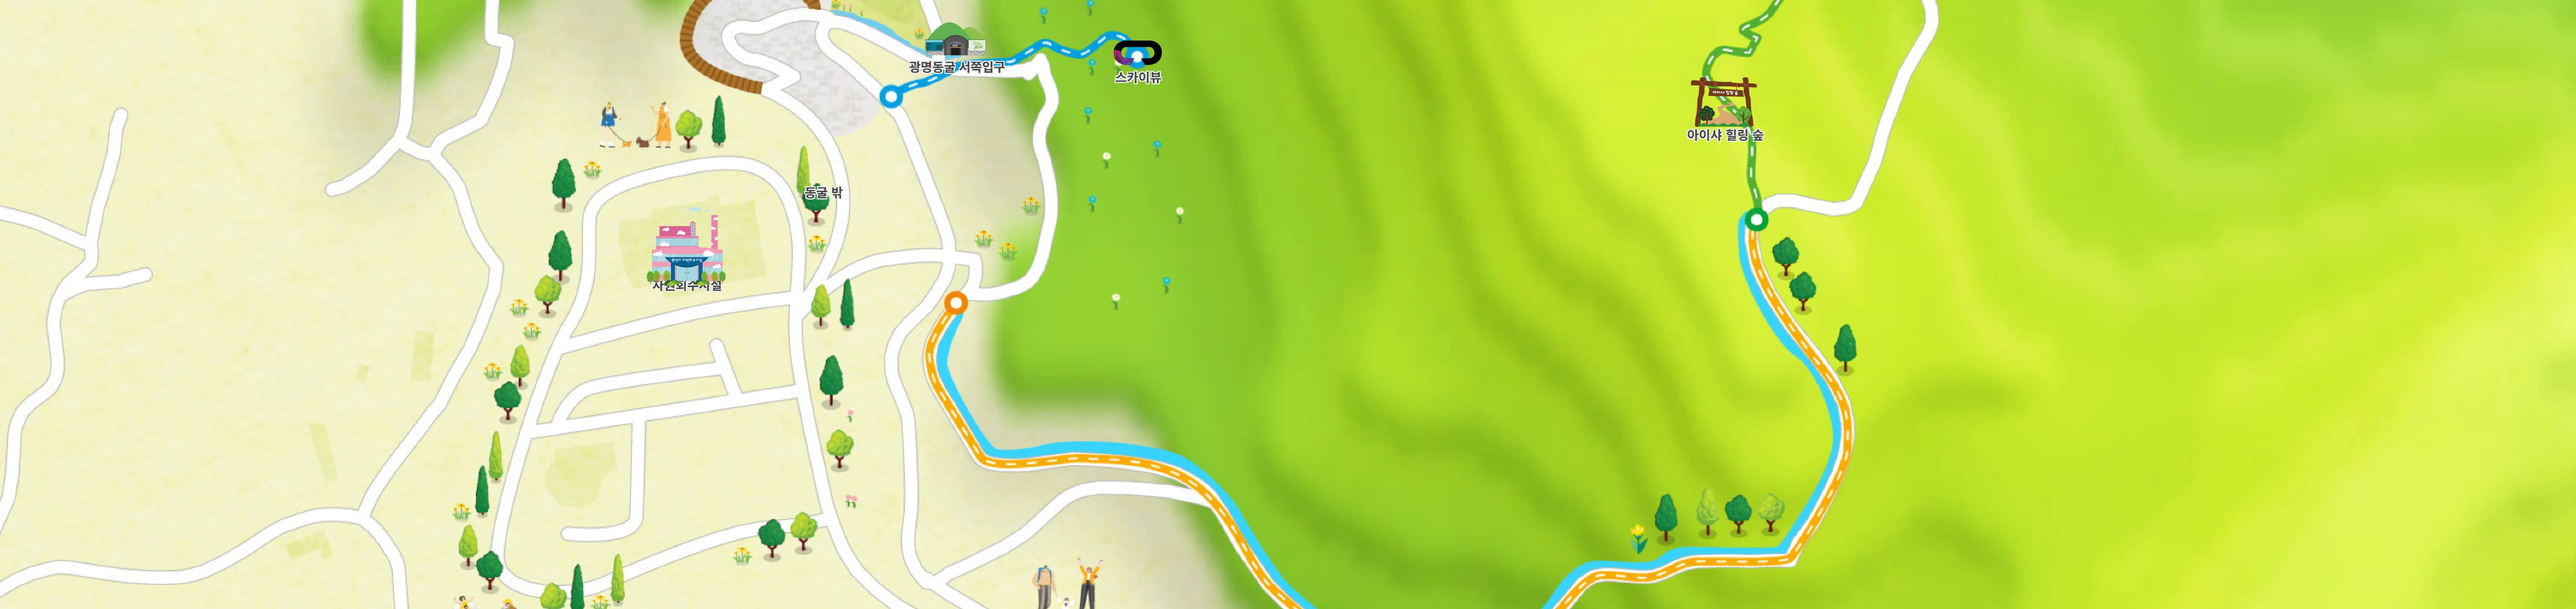
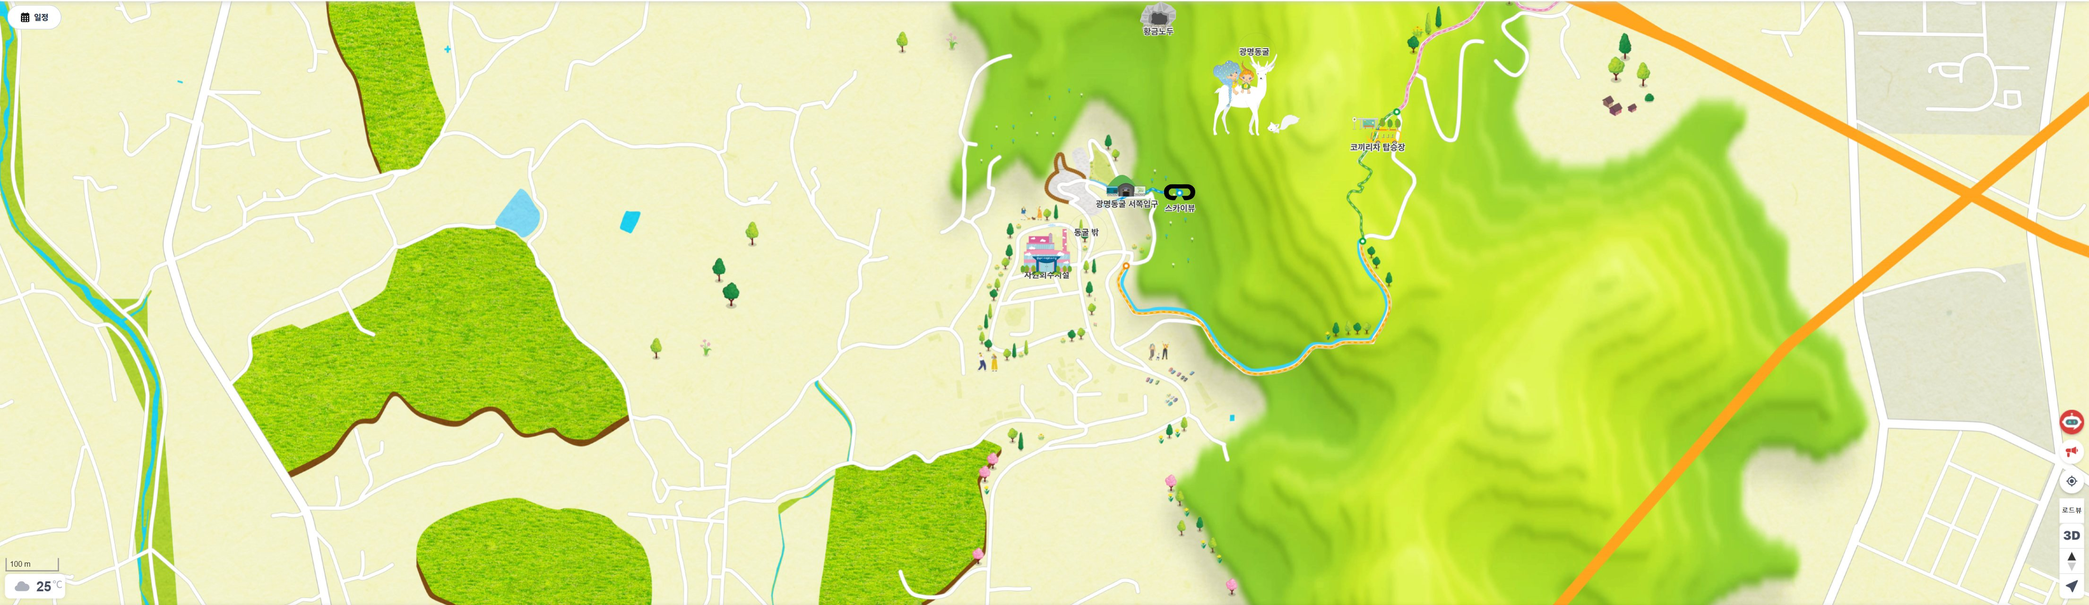
전자지도 이미지를 더 넓은 단일 프레임으로 교체, 뉴스/문화행사 실제 사진 반영
- 지도 섹션 제목을 '전자지도'로 변경
- 지도 배경을 서쪽 클러스터~코끼리차 탑승장까지 이어붙임 없이 한 장에 담은 이미지로 교체
- NEWS 캐러셀을 실제 인스타그램 스토리 캡쳐 9장으로 교체 (가짜 좋아요/댓글 수 제거)
- 문화행사 2·3번째 원형 사진을 실제 사진으로 교체

diff --git a/광명동굴/js/script.js b/광명동굴/js/script.js
@@ -58,48 +58,15 @@ document.addEventListener("DOMContentLoaded", () => {
 const IG_PROFILE_URL = "https://www.instagram.com/gmcave_official";
 
 const IG_POSTS = [
-  {
-    image: "20200121_4.png",
-    caption: "밤이 되면 더 반짝이는 광명동굴 문화행사 현장 ✨ #광명동굴 #동굴테마파크",
-    likes: 482,
-    comments: 21,
-    date: "3일 전",
-  },
-  {
-    image: "hall_pic27.png",
-    caption: "대한민국 와인 페스티벌 in 광명동굴 🍇🍷 #광명동굴와인축제",
-    likes: 356,
-    comments: 14,
-    date: "5일 전",
-  },
-  {
-    image: "cvgc_001.png",
-    caption: "라스코전시관에서 만나는 선사시대 동굴벽화 🦌 #라스코전시관",
-    likes: 271,
-    comments: 9,
-    date: "1주 전",
-  },
-  {
-    image: "hall_pic1_230810.jpg",
-    caption: "웜홀광장, 빛으로 가득한 동굴 식물원 🦋 #웜홀광장 #광명동굴",
-    likes: 519,
-    comments: 33,
-    date: "2주 전",
-  },
-  {
-    image: "hall_pic2.jpg",
-    caption: "빛의 공간에서 만나는 몽환적인 동굴 산책길 💙 #빛의공간",
-    likes: 604,
-    comments: 27,
-    date: "2주 전",
-  },
-  {
-    image: "cvgc_002.png",
-    caption: "동굴 속 숨어있는 포토스팟, 용 조형물을 찾아보세요 🐉 #광명동굴포토스팟",
-    likes: 388,
-    comments: 18,
-    date: "3주 전",
-  },
+  { image: "images/news/news1.png", caption: "광명동굴 신상 굿즈 홍보 비하인드" },
+  { image: "images/news/news2.png", caption: "예술의전당 파사드쇼 임시 운영중단 안내" },
+  { image: "images/news/news3.png", caption: "지역화폐 사용 인증" },
+  { image: "images/news/news4.png", caption: "암흑스테이지 이벤트 안내" },
+  { image: "images/news/news5.png", caption: "암흑스테이지 현장 스케치" },
+  { image: "images/news/news6.png", caption: "운영시간 안내 Q&A" },
+  { image: "images/news/news7.png", caption: "8월 휴장일 안내" },
+  { image: "images/news/news8.png", caption: "야간 조명 인생샷" },
+  { image: "images/news/news9.png", caption: "방문객 인증샷" },
 ];
 
 const IG_ICON_SVG = `<svg viewBox="0 0 24 24" fill="none" xmlns="http://www.w3.org/2000/svg" aria-hidden="true">
@@ -213,14 +180,14 @@ document.addEventListener("DOMContentLoaded", () => {
     const MIN_SCALE = 1;
     const MAX_SCALE = 3;
     const ZOOM_STEP = 0.15;
-    // Native size of images/cavegm_map_screenshot.png (a stitched, detail-zoom
-    // capture wider than the preview box) so we can size/clamp it ourselves
-    // instead of relying on object-fit, which would hide the extra width.
-    const IMG_NATURAL_WIDTH = 5449;
-    const IMG_NATURAL_HEIGHT = 1290;
-    // Calibrated so that at scale 1 a 70px bar reads "50 m", matching the
-    // real electronic map's own scale readout at the same zoom level.
-    const METERS_PER_PX_AT_SCALE_1 = 50 / 70;
+    // Native size of images/cavegm_map_screenshot.jpg (a single wide capture,
+    // wider than the preview box) so we can size/clamp it ourselves instead
+    // of relying on object-fit, which would hide the extra width.
+    const IMG_NATURAL_WIDTH = 4420;
+    const IMG_NATURAL_HEIGHT = 1280;
+    // Calibrated from the real electronic map's own "100 m" scale readout at
+    // the same zoom level this capture was taken at.
+    const METERS_PER_PX_AT_SCALE_1 = 2.286;
     const SCALE_BAR_TARGET_PX = 80;
     let scale = 1;
     let tx = 0;

diff --git a/광명동굴/index.html b/광명동굴/index.html
@@ -145,12 +145,12 @@
           </div>
         </li>
         <li>
-          <div class="culture-circle" style="background-image:url('hall_pic27.png');">
+          <div class="culture-circle" style="background-image:url('images/culture/culture2.png');">
             <span class="sr-only">문화행사 2</span>
           </div>
         </li>
         <li>
-          <div class="culture-circle" style="background-image:url('cvgc_001.png');">
+          <div class="culture-circle" style="background-image:url('images/culture/culture3.png');">
             <span class="sr-only">문화행사 3</span>
           </div>
         </li>
@@ -176,7 +176,7 @@
     </section>
 
     <section class="tour-map-section" id="facility">
-      <h2 class="section-title">랜선여행</h2>
+      <h2 class="section-title">전자지도</h2>
       <p class="section-subtitle">랜선으로 만나는 광명동굴 이야기</p>
 
       <div class="map-embed" data-map-embed>
